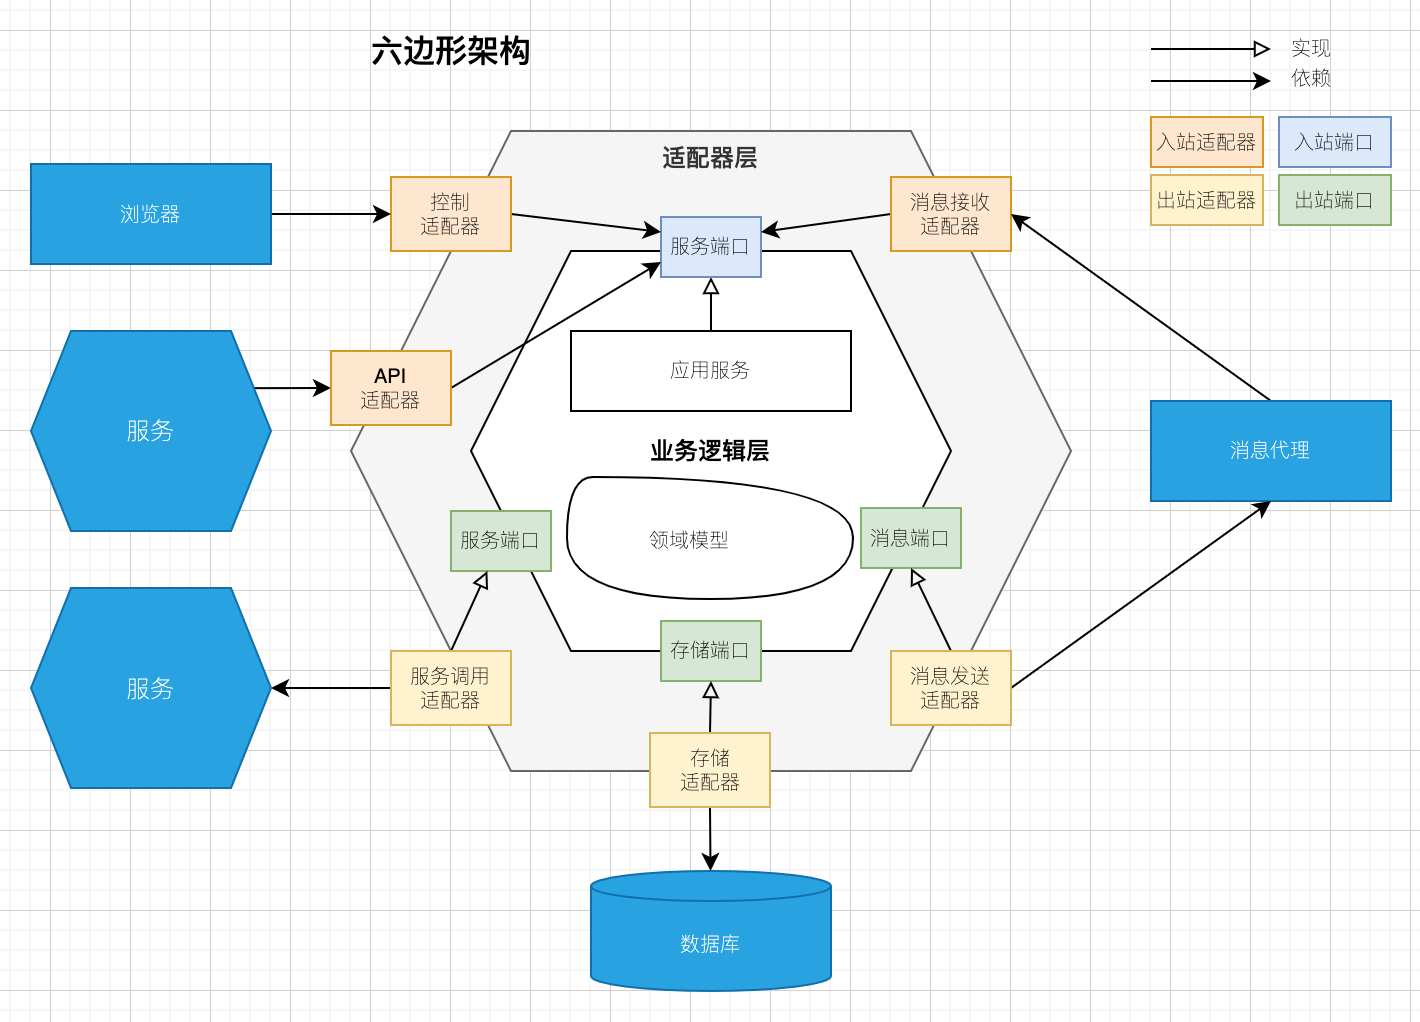
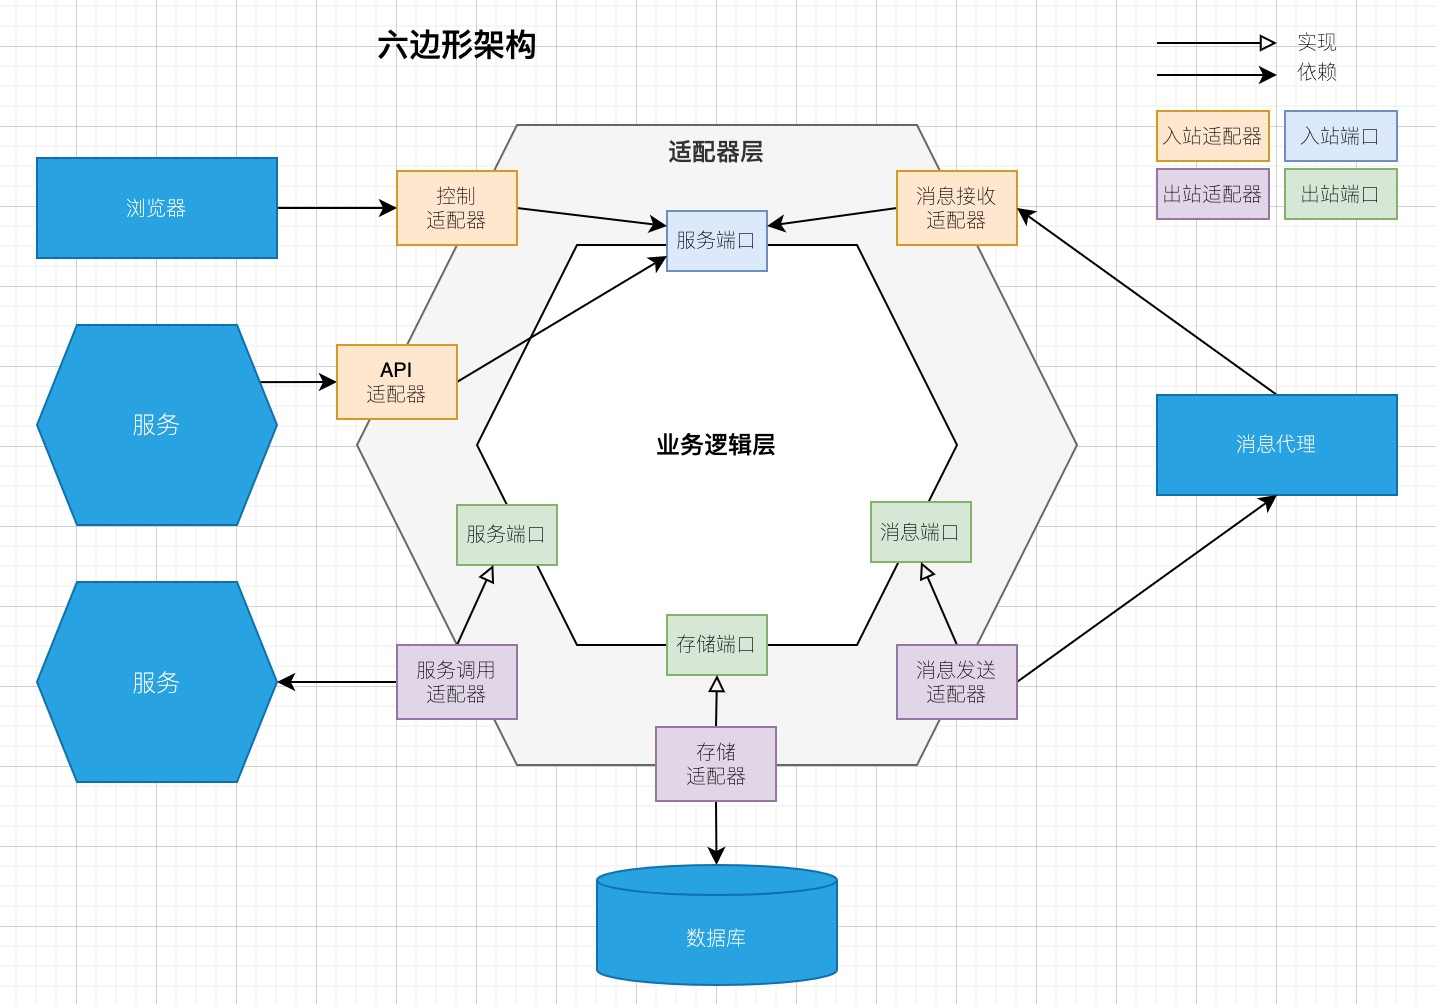
update layer arch file

diff --git a/_posts/2023-06-06-layer-arch-evolution.md b/_posts/2023-06-06-layer-arch-evolution.md
@@ -12,7 +12,7 @@ author: dinstone
 
 ## 概述
 
-前面聊过了应用架构方法论(架构风格)的演进，其中提到的分层架构模式，先后经历了MVC架构、三层架构、DDD架构、六边形架构等模式，那么，今天就聊一聊分层架构的演进。
+前面聊过了应用架构风格的演进，其中提到的分层架构风格，其实现先后经历了MVC架构、三层架构、DDD架构、六边形架构等模式，那么，今天就聊一聊分层架构的演进。
 
 在今天看来，分层架构是运用最为广泛的架构模式。首先，几乎每个软件系统都通过层（Layer）来隔离不同的关注点，在层中应对不同需求的变化，使得这种变化可以独立演进。此外，软件系统架构要考虑技术复杂性与业务复杂性的分离，通常引起技术实现发生变化的原因与引起业务发生变化的原因显然不同，而分层架构模式是隔离技术复杂度的利器。
 
@@ -40,34 +40,56 @@ author: dinstone
 
 ![ddd]({{site.url}}/img/arch/ddd-d.png)
 
-2003年Eric Evans在《领域驱动设计》中提出DDD分层架构，目的是为了解决三层架构中业务逻辑层难以维护和演进的缺点。DDD分层架构丰富了业务逻辑层的含义，将其分成了应用层和领域层。同时，将数据访问层更名为基础设施层（Infrastructure Layer），则突破了之前数据库管理系统的限制，扩大了这个负责封装技术复杂度的基础层次的内涵。
+2003年，Eric Evans在其著作《领域驱动设计》中提出了DDD分层架构，旨在解决传统三层架构中业务逻辑层难以维护和演进的问题。DDD的核心在于对业务领域的深入建模和精准划分，并通过分层架构的方式实现代码的清晰组织。在DDD分层架构中，业务逻辑层得到了进一步的丰富和深化，被细分为应用层和领域层，从而使得业务逻辑的处理更加专业和高效。
+
+此外，DDD还将传统三层架构中的数据访问层更名为基础设施层，这一变革不仅突破了之前数据库管理系统的限制，还大大扩展了基础设施层的内涵。基础设施层现在负责封装技术复杂度，为上层提供统一的接口和封装，使得整个系统更加灵活和可扩展。
+
+通过DDD分层架构，开发人员能够更好地关注业务领域本身，降低技术实现的复杂度，提高软件的质量和可维护性。同时，这种架构模式也使得系统的演进变得更加平滑和可控，为企业的长远发展奠定了坚实的基础。
 
 ![ddd]({{site.url}}/img/arch/ddd-layer.png)
 
 1. 接口层：和三层架构第一层基本保持不变。
-2. 应用层：从三层架构里的业务逻辑层剥离出领域建模中的应用服务。
-3. 领域层：从三层架构里的业务逻辑层剥离出的核心业务逻辑，也即领域模型所在层。
+2. 应用层：从三层架构里的业务逻辑层剥离出的应用服务，应用服务负责接收外部请求，协调领域对象（聚合和领域服务），以及处理事务和安全性等方面的问题。应用服务通常用于暴露接口给外部系统（例如用户界面、API等）。
+3. 领域层：从三层架构里的业务逻辑层剥离出的核心业务逻辑，也即领域模型（聚合、聚合根、实体、值对象、领域服务）所在层。聚合是一个边界内的领域对象的集合，是领域逻辑的核心单元，其目的是将领域模型模块化。领域服务是一个面向领域的服务，负责处理特定的领域逻辑，通常被用于处理跨实体的复杂业务操作，领域服务通常不保存状态，而是执行一些操作或计算。
 4. 基础设施层：包含原三层架构的数据访问层，也包括从三层架构里的业务逻辑层剥离出的技术框架、中间件系统、以及依赖其它应用系统的相关代码。
 
 ### 六边形架构
 
 ![lbx]({{site.url}}/img/arch/lbxjg.png)
 
-2005年Alistair Cockburn提出了六边形架构，它把系统分为内部和外部，内部代表业务逻辑，外部代表业务逻辑的入口调用和出口依赖。内部通过端口和外部进行通信，端口代表了某种协议，往往以接口API呈现。不同形态的外部要顺利访问到内部之前，或者内部访问外部的依赖之前都需要经过必要的适配器实现，因此六边形架构也叫端口适配器架构。
+2005年，Alistair Cockburn提出的六边形架构将系统巧妙地划分为内部和外部两大部分。内部聚焦于核心的业务逻辑，而外部则负责业务逻辑的入口调用和出口依赖的管理。内部与外部之间的通信是通过精心设计的端口来实现的，这些端口实质上代表了一种协议，通常以接口API的形式呈现。
 
-六边形架构本身和DDD分层架构没有直接关系，但是它很好的解决了业务逻辑不应该依赖基础设施层的问题。通过依赖倒置，即外部各适配器依赖内部的端口（适配器是对端口的实现），消除了因为技术设施层里具体技术实现的变化可能导致的应用服务和业务逻辑的变化。
+为了确保不同形态的外部系统能够顺畅地访问内部业务逻辑，或者在内部业务逻辑需要依赖外部系统时能够无缝集成，六边形架构引入了适配器的概念。适配器作为桥梁，使得内部与外部之间的交互变得灵活而可控。因此，六边形架构也常被称为端口适配器架构。
+
+通过这种架构模式，六边形架构不仅增强了系统的可扩展性和可维护性，还使得业务逻辑与外部系统的解耦成为可能，为复杂系统的设计和开发提供了一种高效且可靠的解决方案。
+
+![lbx]({{site.url}}/img/arch/lbxjgx.png)
+
+六边形架构主要关注如何将应用程序的核心业务逻辑与外部系统解耦，使其更加灵活、可扩展和可维护。
+
+然而，六边形架构本身并不涉及内部业务逻辑的具体实现细节。内部业务逻辑的实现需要依赖于深入的业务领域知识和适当的技术选型。在这方面，领域驱动设计（DDD）为我们提供了有力的指导。
+
+因此，在实际应用中，我们可以结合六边形架构和DDD的最佳实践，将六边形架构的内部业务逻辑进一步细化为DDD的应用层和领域层。应用层负责处理用户的输入和输出，协调领域层的对象来执行相应的业务操作；而领域层则专注于业务领域的核心概念和规则，确保业务逻辑的完整性和一致性。通过这种结合，我们可以充分利用六边形架构和DDD的优势，构建出既灵活又健壮的软件系统。
 
 ### 洋葱圈架构
 
 ![yc]({{site.url}}/img/arch/ycjg.png)
 
-2008年Jeffrey Palermo结合六边形架构和DDD分层架构提出了洋葱圈架构。它跟六边形架构很接近，只是对内部的业务逻辑再划分了一个领域服务层。每层的依赖很清晰，外层依赖内层，那是不是意味着要访问内部的领域模型一定要经过应用服务层和领域服务层？其实未必，有些业务逻辑没有领域服务也不用特意构建领域服务，这样也就意味着应用服务可以直接依赖领域模型。
+2008年，Jeffrey Palermo巧妙地结合了六边形架构与DDD分层架构，提出了洋葱圈架构。这一架构与六边形架构有着诸多相似之处，但它在内部业务逻辑的划分上更为精细，增加了一个领域服务层。这种分层设计使得每层的依赖关系变得清晰明了，外层依赖于内层，构建了一个有序且高效的系统结构。
+
+然而，这并不意味着在访问内部的领域模型时，必须严格经过应用服务层和领域服务层。实际上，对于一些没有涉及复杂业务逻辑的场景，我们并不需要特意构建领域服务层。在这种情况下，应用服务层可以直接与领域模型进行交互，从而简化了系统结构，提高了开发效率。
+
+这种灵活性正是洋葱圈架构的魅力所在。它允许我们根据具体业务需求，灵活地调整系统结构，确保在满足功能需求的同时，保持系统的清晰度和可维护性。因此，在设计和实现洋葱圈架构时，我们应充分理解其核心理念，并根据实际情况进行合理的调整和优化。
 
 ### 整洁架构
 
 ![cla]({{site.url}}/img/arch/zjjg.png)
 
-2012年Rob Martin提出整洁架构，跟洋葱圈架构类似。架构最核心的原则就是代码依赖关系只能从外向内，每一圈层代表软件系统的不同部分，越往里抽象程度越高，外层为机制，内层为策略，每层的依赖很清晰，达到领域层不受业务之外的其他因素干扰的效果。
+2012年，Rob Martin提出了整洁架构，它与洋葱圈架构有着诸多相似之处。整洁架构的核心原则在于确保代码依赖关系始终从外向内流动，每一圈层都代表着软件系统的不同组成部分。随着圈层向内深入，抽象程度逐渐提高，外层侧重于实现具体的机制，而内层则聚焦于策略层面的设计和实现。
+
+这种分层设计使得各层之间的依赖关系清晰明了，有效地实现了领域层与业务之外其他因素的隔离。通过整洁架构，我们可以确保领域层专注于核心业务逻辑的处理，而不受外部技术细节或特定实现方式的干扰。
+
+整洁架构的引入，不仅提高了软件系统的可维护性和可扩展性，还使得开发人员能够更加专注于业务领域的深入探索和创新。因此，整洁架构已成为现代软件设计中备受推崇的一种架构模式，为构建高质量、可靠的软件系统提供了有力的支持。
 
 ## 架构原则和协作
 
